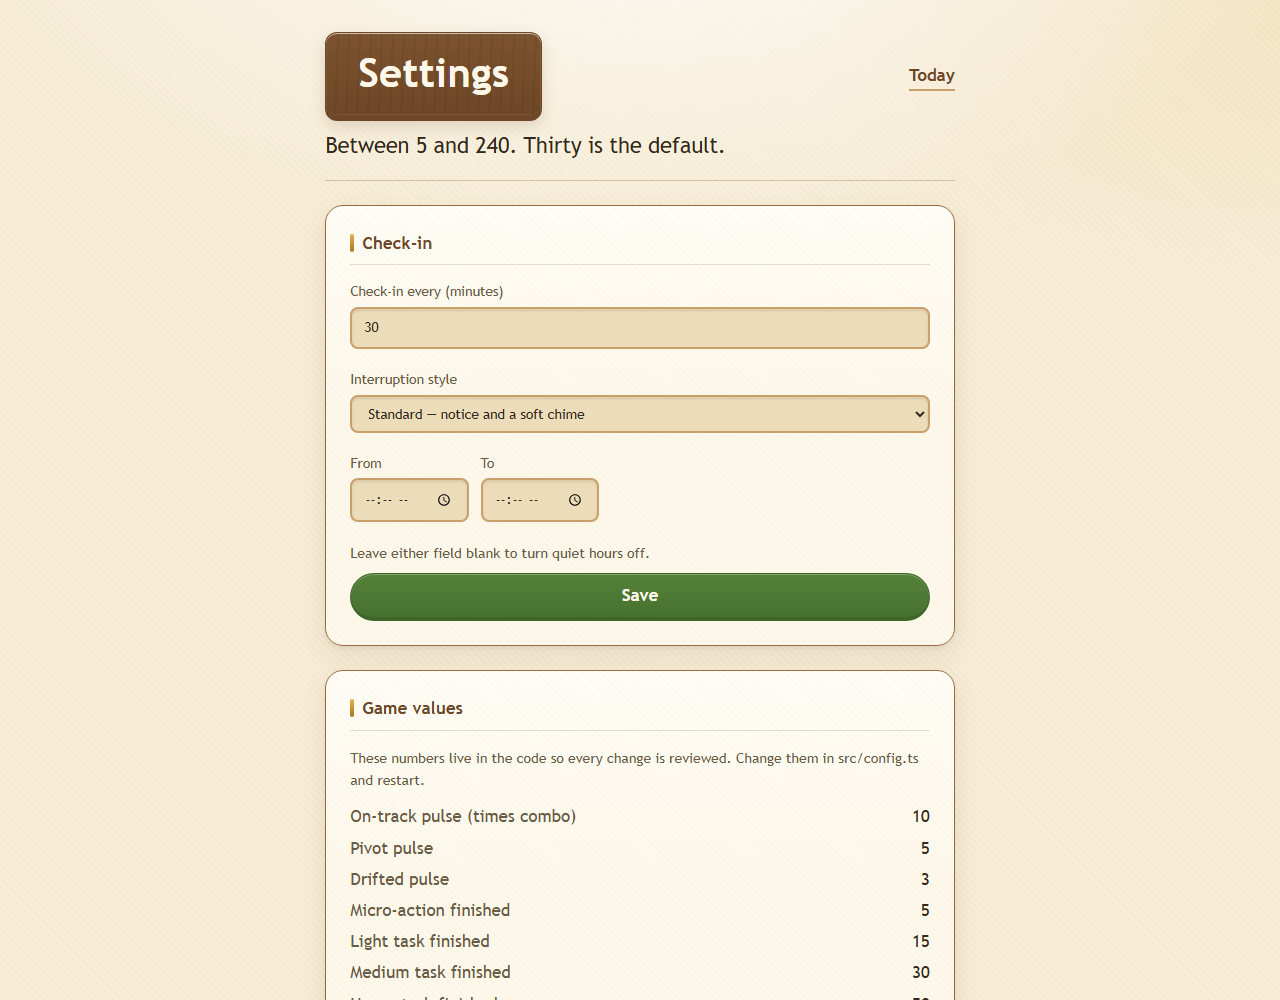
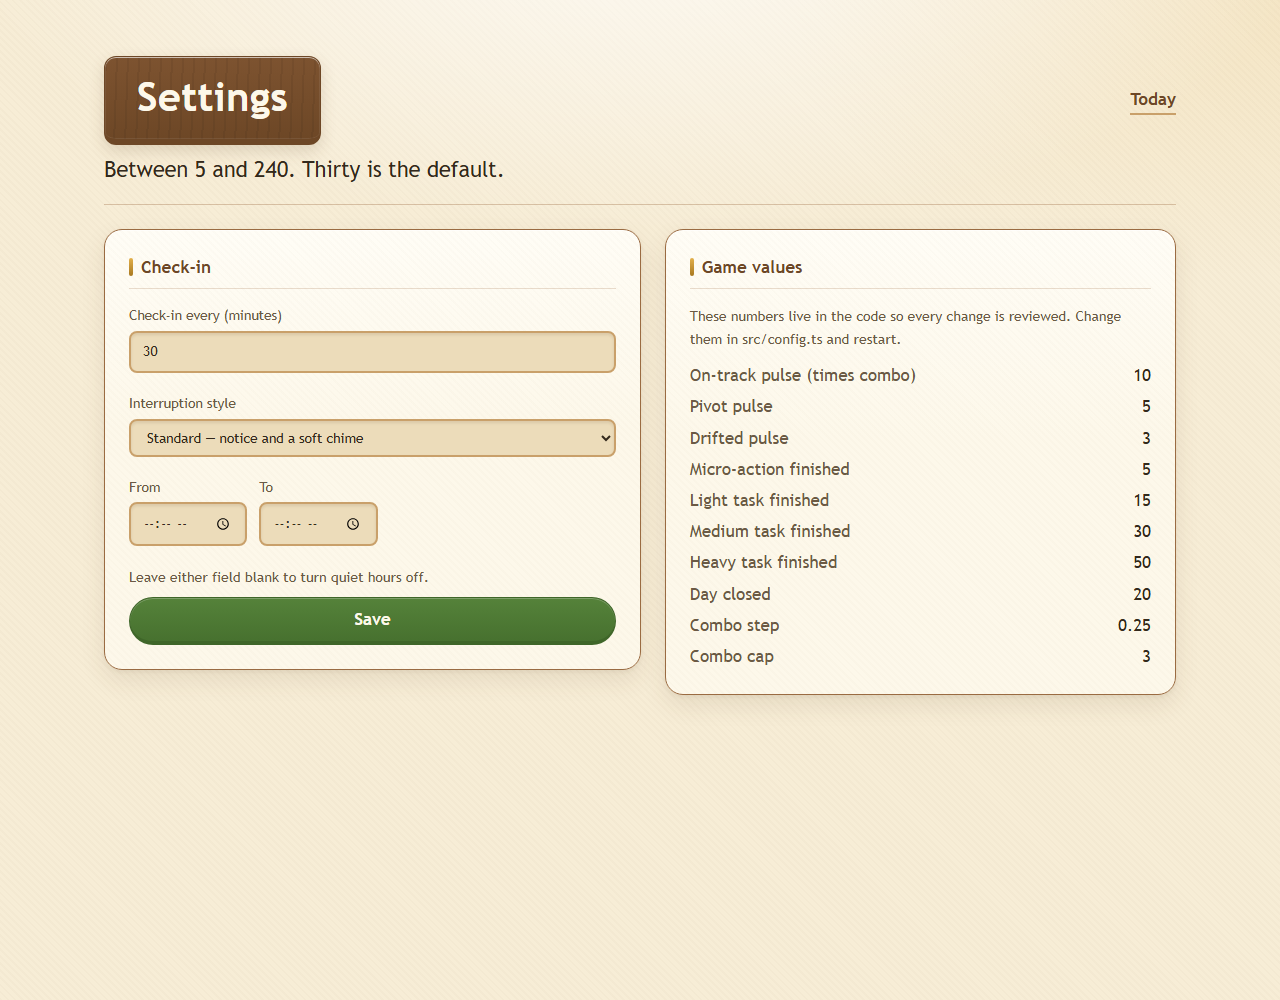
Design revamp: finish the desktop treatment on every view
Settings was still a narrow single column while the dashboard had gone
two-column, so the check-in form and the game-values reference now sit side by
side at laptop widths. A closed day's summary spans the dashboard's full width
instead of leaving a dead column beside it.

Panel padding returns to its original 16px/24px on small screens and only grows
to 24px from the desktop breakpoint, so 320px stays single-column with no
horizontal overflow.

🤖 Generated with Codebuff

Changed region(s): [[0.0625, 0.031, 0.9375, 0.992], [0.875, 0.093, 0.9375, 0.124], [0.7188, 0.062, 0.75, 0.093]]

diff --git a/src/app/globals.css b/src/app/globals.css
@@ -166,7 +166,7 @@ body {
 
 .panel {
   margin-top: var(--space-6);
-  padding: var(--space-6);
+  padding: var(--space-4) var(--space-6) var(--space-6);
   border: 1px solid var(--wood-500);
   border-radius: var(--radius-lg);
   background:
@@ -694,8 +694,17 @@ body {
     grid-column: 1 / -1;
   }
 
+  .shell > .panel {
+    padding: var(--space-6);
+  }
+
   .shell:has(.stats) > .panel {
     margin-top: 0;
+  }
+
+  /* A day summary is prose, not a column card: give it the full width. */
+  .shell:has(.stats) > .panel:has(.values) {
+    grid-column: 1 / -1;
   }
 
   .masthead {
@@ -761,6 +770,32 @@ body {
     width: 18px;
     height: 18px;
     border-radius: 4px;
+  }
+
+  /* Settings: the form and the reference numbers read side by side instead of
+     leaving the right half of a laptop screen empty. */
+  .shell:has(.values):not(:has(.stats)) {
+    max-width: 1120px;
+    display: grid;
+    grid-template-columns: minmax(0, 1.05fr) minmax(0, 1fr);
+    align-items: start;
+    gap: var(--space-6);
+    padding-top: 56px;
+    padding-bottom: 72px;
+  }
+
+  .shell:has(.values):not(:has(.stats)) > .masthead {
+    grid-column: 1 / -1;
+    margin-bottom: 0;
+  }
+
+  .shell:has(.values):not(:has(.stats)) > .panel,
+  .shell:has(.values):not(:has(.stats)) > .notice {
+    margin-top: 0;
+  }
+
+  .shell:has(.values):not(:has(.stats)) > .notice {
+    grid-column: 1 / -1;
   }
 }
 

diff --git a/docs/design.md b/docs/design.md
@@ -213,15 +213,27 @@ neighbour. The header gains a rule, the wordmark grows, and the panel headings
 share a gold marker and hairline.
 
 The desktop grid is scoped with `:has(.stats)`, because the settings page shares
-`.shell` but must stay a single readable column; before that guard, the heat-map
-strip layout landed on the settings page's last panel and squeezed its values
-list into the label column.
+`.shell` but must not inherit the dashboard's panel flow; before that guard, the
+heat-map strip layout landed on the settings page's last panel and squeezed its
+values list into the label column.
+
+The same treatment now covers every view: a closed day's summary panel spans the
+full width (it is prose and a definition list, not a column card), and the
+settings page gets its own two-column desktop layout — the check-in form beside
+the game-values reference — so it no longer sits in a narrow column with half a
+laptop screen empty.
+
+Mobile padding was restored after the first desktop pass raised the base panel
+padding: `.panel` keeps its original `16px 24px 24px`, and the desktop media
+query raises it to 24px on all sides. At 320px the dashboard is a single column
+with no horizontal overflow.
 
 New tokens, used as fills behind text and never as text colours, so no contrast
 gate applies: `--parchment-0: #fffdf6` (panel and stat tops) and
 `--leaf-400: #55823a` (button gradient top). Verified in a headless Chrome
-render at 1280px on both pages; captures are `docs/design-revamp-desktop.png`
-and `docs/design-revamp-settings.png`.
+render at 1280px on both pages, plus the running-day dashboard; captures are
+`docs/design-revamp-desktop.png`, `docs/design-revamp-active.png` and
+`docs/design-revamp-settings.png`.
 
 ## Shipped values (2026-11-08)
 

diff --git a/docs/handoff.md b/docs/handoff.md
@@ -350,6 +350,12 @@ panel headings get a gold marker and hairline. The grid is scoped to the
 dashboard with `:has(.stats)`, which also fixed the settings page where the
 strip layout had squeezed the game values into a side column.
 
+Every view followed: a closed day's summary spans the full dashboard width, and
+settings has a two-column desktop layout (form beside the game-values list).
+Panel padding is back to 16px/24px on small screens and 24px only from the
+desktop breakpoint, so the 320px layout is single-column with no horizontal
+overflow.
+
 Commits: `905bc4d` (palette, frame, sign) and the slips/motion commit that
 follows it, both `design revamp:` prefixed. `npm test` and `npm run build` pass.
 
